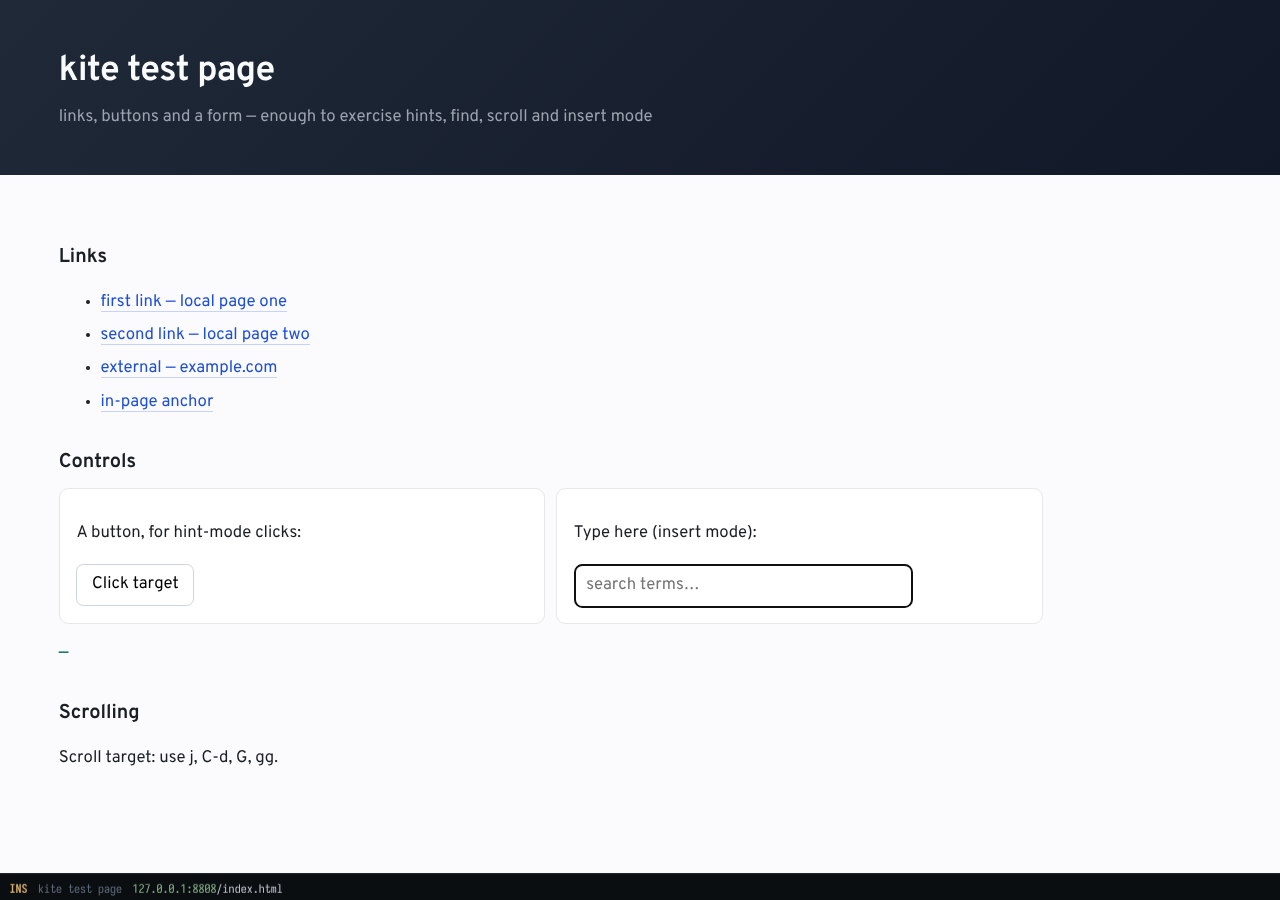
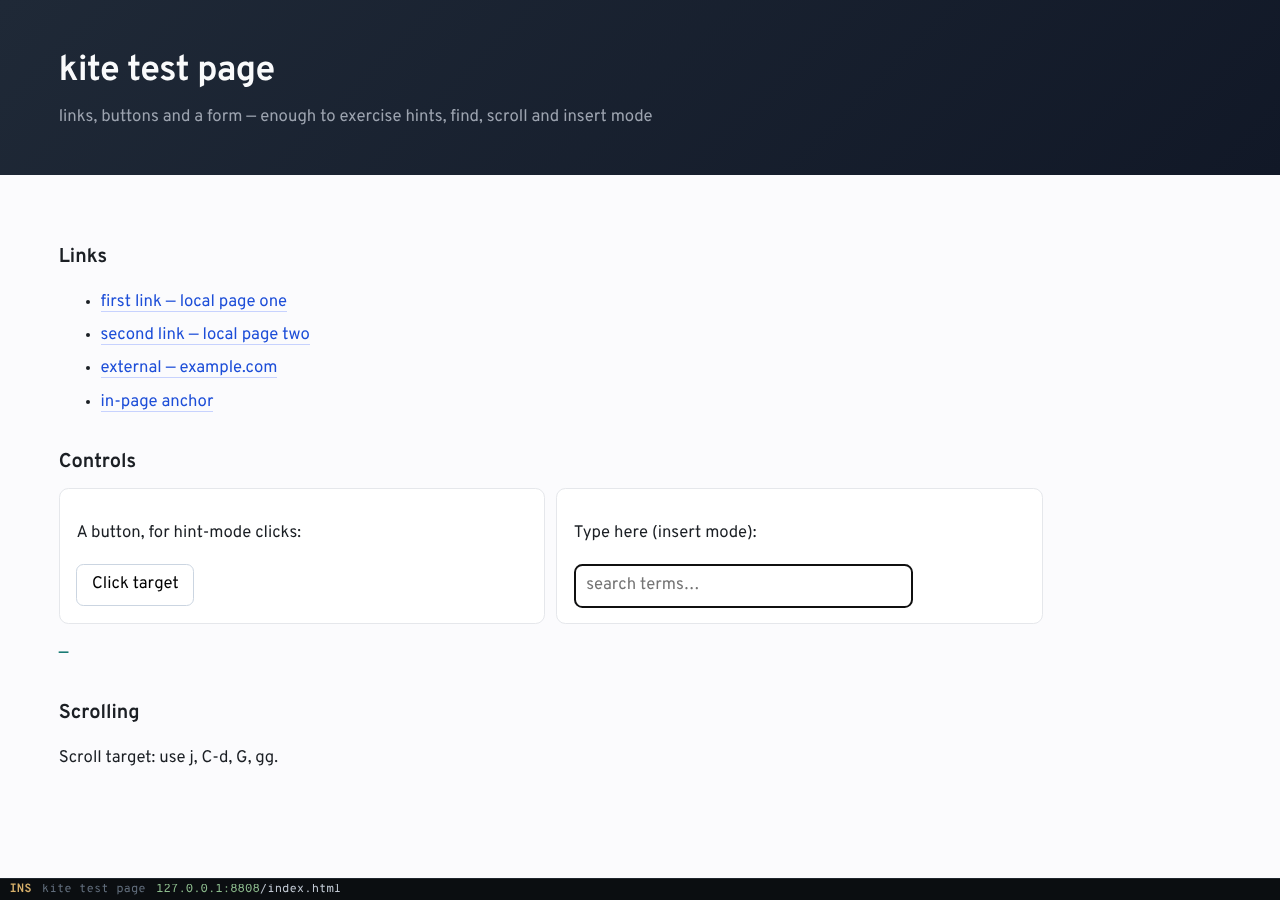
docs: refresh screenshots, say window instead of tab
The four shots are regenerated from the harness after the font change, and
`tab-undo` now describes what it does: reopen the last closed window.

Changed region(s): [[0.0, 0.9644, 1.0, 0.9956]]

diff --git a/src/shell.rs b/src/shell.rs
@@ -1204,7 +1204,7 @@ pub const COMMANDS: &[(&str, &str)] = &[
     ("tab-close", "close current tab"),
     ("tab-next", "next tab"),
     ("tab-prev", "previous tab"),
-    ("tab-undo", "reopen last closed tab"),
+    ("tab-undo", "reopen the last closed window"),
     ("q", "quit kite"),
     ("qall", "quit kite"),
     ("reload", "reload page"),
